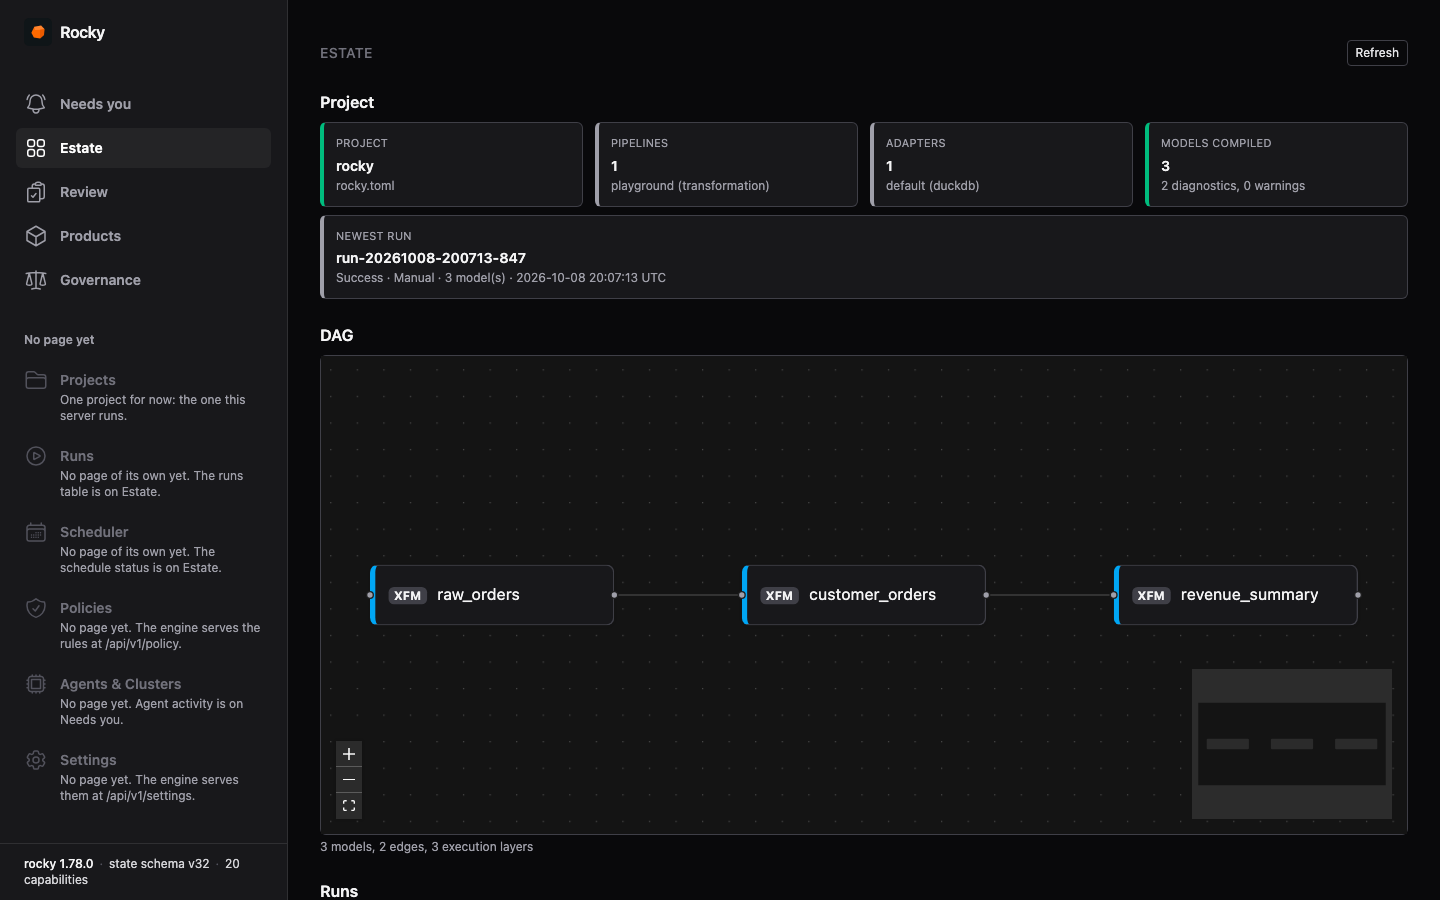
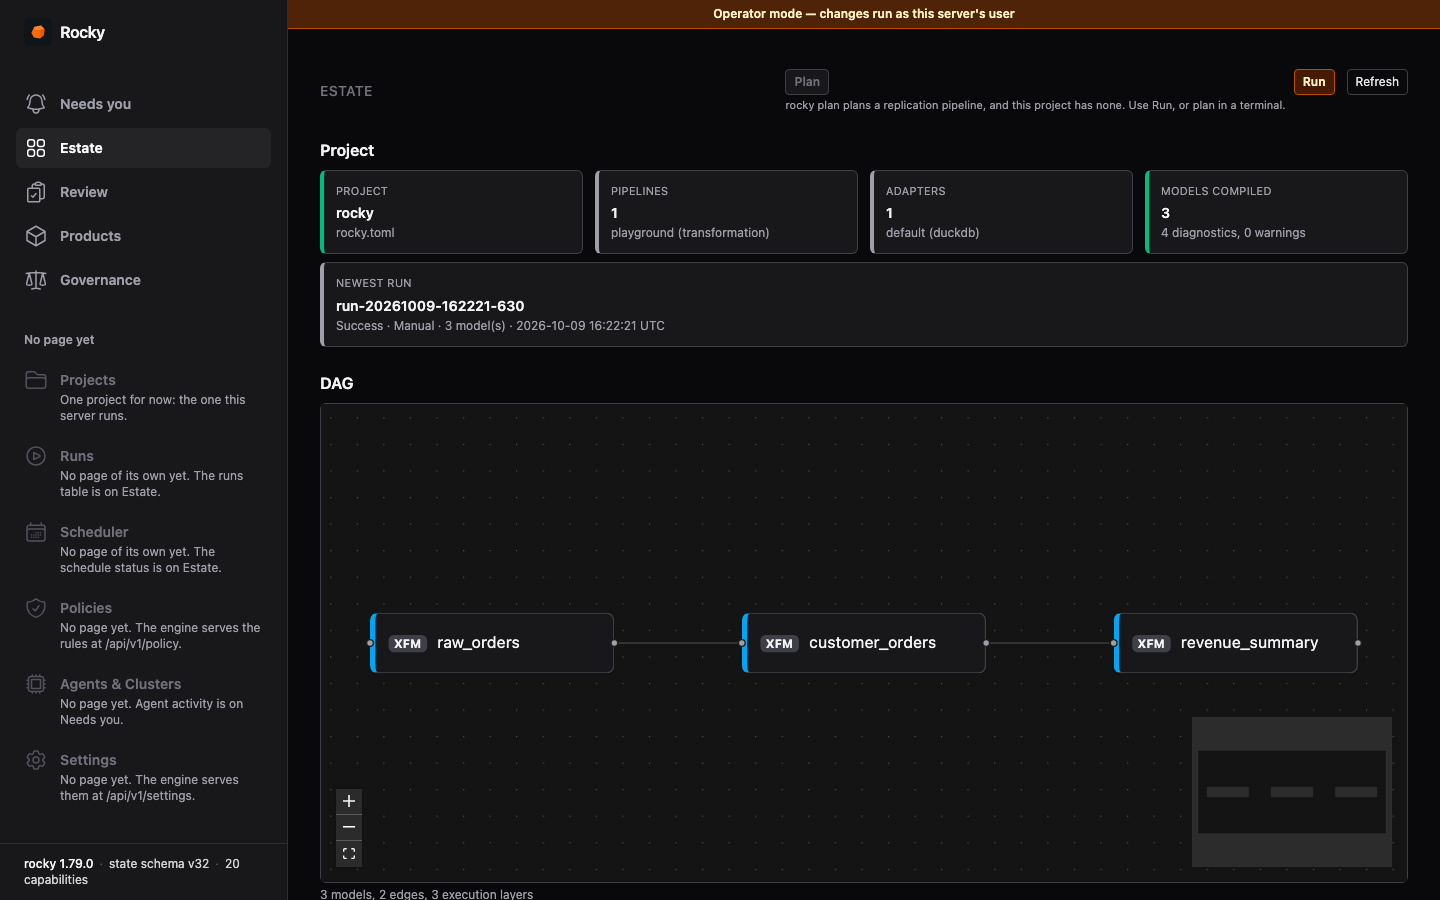
docs(ui): browser UI screenshots from engine 1.79.0, in operator mode (#2332)
The browser UI screenshots and tour GIF now show engine 1.79.0 in operator mode, the default on a reader's own machine. The recorder pins --token-scope full; the capture only navigates and its curl calls are GETs. Alt text names the Approve, Plan and Run buttons.

diff --git a/docs/src/content/docs/guides/browser-ui.md b/docs/src/content/docs/guides/browser-ui.md
@@ -89,7 +89,7 @@ Each card says whether its data was available. A signal the ledger does not hold
 
 The printed address opens Estate, even though Needs you is first in the sidebar. It shows the project as the engine compiled it. The strip at the top names the config file, the pipelines and adapters, the compiled models with their diagnostics, and the newest run.
 
-![The estate screen for the playground project: a project strip with one transformation pipeline, one DuckDB adapter and three compiled models, the newest run, and a DAG of raw_orders, customer_orders and revenue_summary](/ui-estate.png)
+![The estate screen for the playground project: a project strip with one transformation pipeline, one DuckDB adapter and three compiled models, the newest run, Plan, Run and Refresh buttons, and a DAG of raw_orders, customer_orders and revenue_summary](/ui-estate.png)
 
 Below the project strip, the DAG draws every model and the edges between them. Click a model to open its detail: its columns (with their types, where the compiler inferred them) and its compiled SQL. The server caps the SQL at 256 KiB and says so when it cuts it. Further down, the estate lists recent runs and the pipelines that declare a `[schedule]`. The Schedule panel also shows the webhook demands waiting in the spool, which no tick has claimed yet. If the server cannot read the spool, the panel shows that error instead of a count.
 
@@ -99,7 +99,7 @@ The Review screen lists the plans that the policy plane sent to a human, by a ru
 
 Open a plan to see why it waits:
 
-![One plan in the Review screen: an agent's run plan awaiting a human, a breaking finding that the email column of dim_customer is dropped, the default policy effect that required review, a sample-rows button, and the rocky review --approve command to copy](/ui-review.png)
+![One plan in the Review screen: an agent's run plan awaiting a human, a breaking finding that the email column of dim_customer is dropped, the default policy effect that required review, a sample-rows button, an Approve button, and the rocky review --approve command to copy](/ui-review.png)
 
 The plan screen shows:
 
